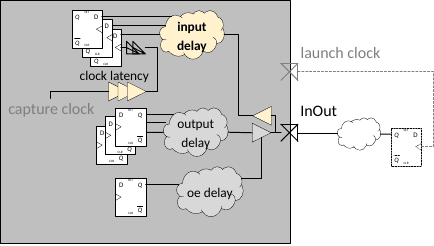
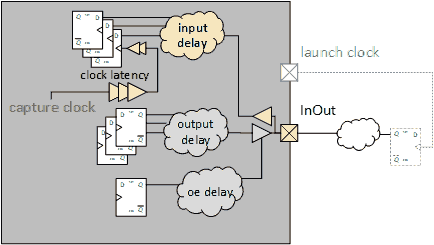
[gui] Bidir dialog: illustrations exported from Visio
The four dialog illustrations data/inout_{in,out}_{internal,external}_dly.png
are now the Visio exports of the sheets BidirI_in, BidirE_in, BidirI_out
and BidirE_out of data/timeit_drawings.vsdx (96 dpi), replacing the
LibreOffice renders.

Their sizes differ by a few pixels: the illustration area is pinned to the
largest of them, so that the dialog keeps its size whichever tab and delay
specification is shown. docs/screenshots/create_inout.png recaptured.

Changed region(s): [[0.0, 0.0, 1.0, 1.0], [0.2396, 0.6571, 0.5991, 0.8857], [0.8088, 0.6, 0.8387, 0.6286]]

diff --git a/classes/inoutsignaldlg.py b/classes/inoutsignaldlg.py
@@ -253,10 +253,20 @@ class InOutSignalDlg(tk.Toplevel):
         crow = 1
         # --- Delay specification label frame: one choice for both parts.
         lf_topo = ttk.Labelframe(self, text='Input and output delays as')
-        # --- Illustration of the part on show, see _update_illustration()
-        self.lbimg_topo = ttk.Label(lf_topo, anchor="center",
+        # --- Illustration of the part on show, see _update_illustration().
+        ## The figures differ in size by a few pixels: their area is the
+        ## largest of them, so that the dialog keeps its size whichever is
+        ## shown. Image sizes are device pixels already (uiscale.load_image).
+        holder = ttk.Frame(
+            lf_topo,
+            width=max(image.width() for image in self.images.values()),
+            height=max(image.height() for image in self.images.values()))
+        holder.grid(row=1, rowspan=99, column=0, padx=2, pady=2)
+        self.lbimg_topo = ttk.Label(holder,
                                     image=self.images[("in", "internal")])
-        self.lbimg_topo.grid(row=1, rowspan=99, column=0, sticky="nswe", padx=2, pady=2)
+        ## To the west: the device box stays where it is from a figure to
+        ## the other.
+        self.lbimg_topo.place(x=0, rely=0.5, anchor="w")
         lf_topo.columnconfigure(0, weight=1)
         lfrow = 10
         for choice, value in [

diff --git a/tests/test_inout_dialog.py b/tests/test_inout_dialog.py
@@ -123,7 +123,13 @@ class TestInOutSignalDlg(InOutDialogTestCase):
             for image in dlg.images.values():
                 self.assertGreater(image.width(), 1)
 
-            shown = self._illustration
+            sizes = set()
+
+            def shown(dlg):
+                image = self._illustration(dlg)
+                sizes.add((dlg.winfo_reqwidth(), dlg.winfo_reqheight()))
+                return image
+
             self.assertEqual(shown(dlg), str(dlg.images[("in", "internal")]))
             dlg.notebook.select(dlg.out_form.frame)
             self.assertEqual(shown(dlg), str(dlg.images[("out", "internal")]))
@@ -132,6 +138,8 @@ class TestInOutSignalDlg(InOutDialogTestCase):
             self.assertEqual(shown(dlg), str(dlg.images[("out", "external")]))
             dlg.notebook.select(dlg.in_form.frame)
             self.assertEqual(shown(dlg), str(dlg.images[("in", "external")]))
+            ## The figures are not all of the same size, the dialog is.
+            self.assertEqual(len(sizes), 1, sizes)
 
         self._run_dialog(lambda: InOutSignalDlg(self.app), driver)
 
